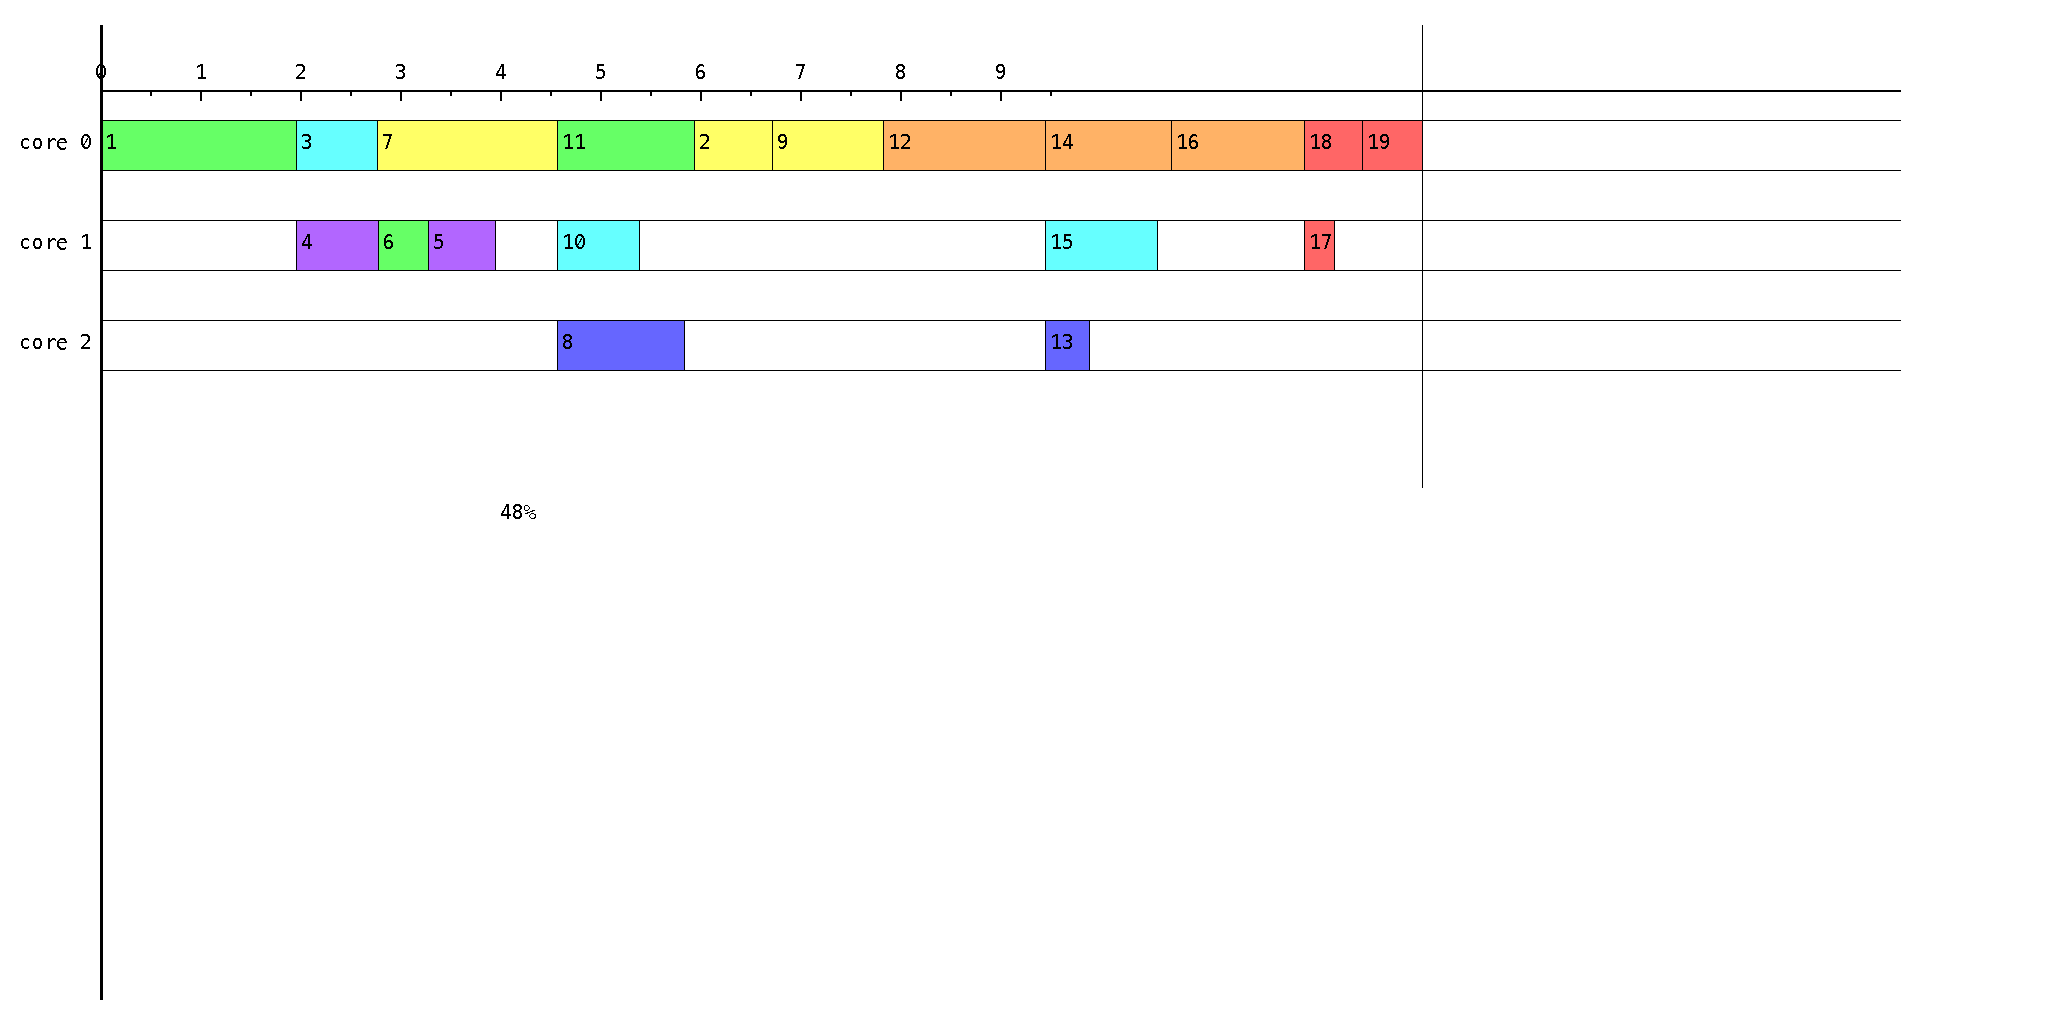
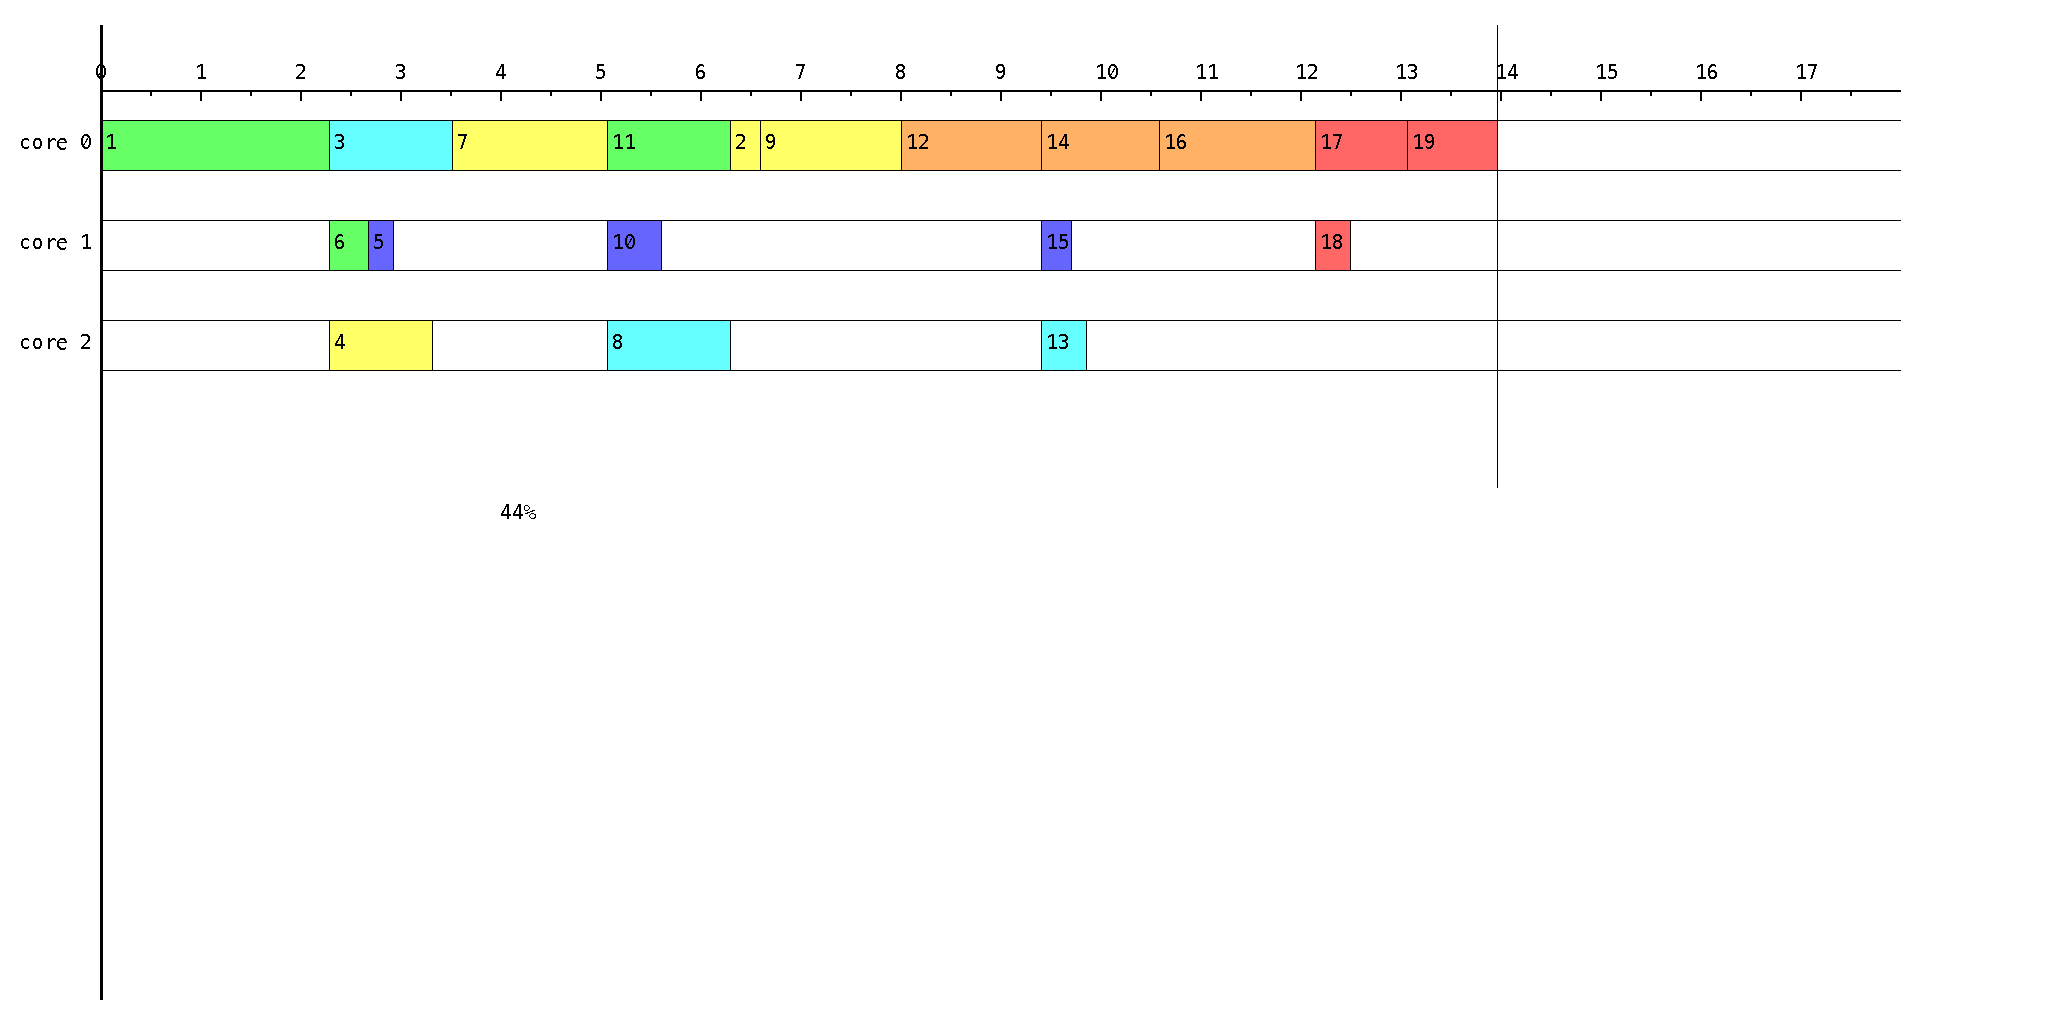
update

diff --git a/gty/src/main_cpop.py b/gty/src/main_cpop.py
@@ -6,6 +6,7 @@ from containerize import *
 import draw
 
 def main():
+    iso_limit = 3
     # init graph
     impact_factor, arc_num, vertex_num, core = maxcut.graph1_parameter()
     graph, vertex_cpu, process, communication_cpu = maxcut.initial_graph_1(vertex_num, arc_num, impact_factor)
@@ -33,37 +34,40 @@ def main():
     order = [t.id for t in priority_list]
     
     # containerize
-    r_dag, cpath, index, cont, bridge_tasks, new_tasks, new_processors = containerize(dag, processors, tasks, order, 'forward', 3)
+    r_dag, cpath, index, cont, bridge_tasks, new_tasks, new_processors = containerize(dag, processors, tasks, order, 'forward', iso_limit)
     print('forward:')
     draw.draw_canvas([(x.id, round(x.ast, 1), round(x.aft, 1), x.processor) for x in new_tasks], cont, 'forward.png')
     print(new_tasks[vertex_num].aft)
     print(cont)
 
     # containerize
-    r_dag, cpath, index, cont, bridge_tasks, new_tasks, new_processors = containerize(dag, processors, tasks, order, 'backward', 3)
+    r_dag, cpath, index, cont, bridge_tasks, new_tasks, new_processors = containerize(dag, processors, tasks, order, 'backward', iso_limit)
     print('backward:')
     draw.draw_canvas([(x.id, round(x.ast, 1), round(x.aft, 1), x.processor) for x in new_tasks], cont, 'backward.png')
     print(new_tasks[vertex_num].aft)
     print(cont)
 
     # in order
-    r_dag, cpath, index, cont, bridge_tasks, new_tasks, new_processors = containerize(dag, processors, tasks, order, 'inorder', 3)
+    r_dag, cpath, index, cont, bridge_tasks, new_tasks, new_processors = containerize(dag, processors, tasks, order, 'inorder', iso_limit)
     print('in order:')
     draw.draw_canvas([(x.id, round(x.ast, 1), round(x.aft, 1), x.processor) for x in new_tasks], cont, 'inorder.png')
     print(new_tasks[vertex_num].aft)
     print(cont)
 
     # random
-    r_dag, cpath, index, cont, bridge_tasks, new_tasks, new_processors = containerize(dag, processors, tasks, order, 'rand', 3)
+    r_dag, cpath, index, cont, bridge_tasks, new_tasks, new_processors = containerize(dag, processors, tasks, order, 'rand', iso_limit)
     print('random:')
     draw.draw_canvas([(x.id, round(x.ast, 1), round(x.aft, 1), x.processor) for x in new_tasks], cont, 'random.png')
     print(new_tasks[vertex_num].aft)
     print(cont)
 
     # upper bound
-    one_tasks, one_processors = update_schedule(dag, r_dag, processors, tasks, range(1, vertex_num + 1), order, [i for i in range(vertex_num + 1)])
+    cont_set = dict()
+    for i in range(vertex_num + 1):
+        cont_set[i] = i
+    one_tasks, one_processors = update_schedule(dag, r_dag, processors, tasks, range(1, vertex_num + 1), order, cont_set)
     print('upper bound:')
-    draw.draw_canvas([(x.id, round(x.ast, 1), round(x.aft, 1), x.processor) for x in one_tasks], cont, 'upper.png')
+    # draw.draw_canvas([(x.id, round(x.ast, 1), round(x.aft, 1), x.processor) for x in one_tasks], cont, 'upper.png')
     print(one_tasks[vertex_num].aft)
     print(cont)
     

diff --git a/gty/src/main.py b/gty/src/main.py
@@ -6,6 +6,7 @@ from containerize import *
 import draw
 
 def main():
+    iso_limit = 3
     # init graph
     impact_factor, arc_num, vertex_num, core = maxcut.graph4_parameter()
     graph, vertex_cpu, process, communication_cpu = maxcut.initial_graph_4(vertex_num, arc_num, impact_factor)
@@ -33,28 +34,28 @@ def main():
     order = [t.id for t in priority_list]
     
     # containerize
-    r_dag, cpath, index, cont, bridge_tasks, new_tasks, new_processors = containerize(dag, processors, tasks, order, 'forward', 2)
+    r_dag, cpath, index, cont, bridge_tasks, new_tasks, new_processors = containerize(dag, processors, tasks, order, 'forward', iso_limit)
     print('forward:')
     draw.draw_canvas([(x.id, round(x.ast, 1), round(x.aft, 1), x.processor) for x in new_tasks], cont, 'forward.png')
     print(new_tasks[vertex_num].aft)
     print(cont)
 
     # containerize
-    r_dag, cpath, index, cont, bridge_tasks, new_tasks, new_processors = containerize(dag, processors, tasks, order, 'backward', 2)
+    r_dag, cpath, index, cont, bridge_tasks, new_tasks, new_processors = containerize(dag, processors, tasks, order, 'backward', iso_limit)
     print('backward:')
     draw.draw_canvas([(x.id, round(x.ast, 1), round(x.aft, 1), x.processor) for x in new_tasks], cont, 'backward.png')
     print(new_tasks[vertex_num].aft)
     print(cont)
 
     # in order
-    r_dag, cpath, index, cont, bridge_tasks, new_tasks, new_processors = containerize(dag, processors, tasks, order, 'inorder', 2)
+    r_dag, cpath, index, cont, bridge_tasks, new_tasks, new_processors = containerize(dag, processors, tasks, order, 'inorder', iso_limit)
     print('in order:')
     draw.draw_canvas([(x.id, round(x.ast, 1), round(x.aft, 1), x.processor) for x in new_tasks], cont, 'inorder.png')
     print(new_tasks[vertex_num].aft)
     print(cont)
 
     # random
-    r_dag, cpath, index, cont, bridge_tasks, new_tasks, new_processors = containerize(dag, processors, tasks, order, 'rand', 2)
+    r_dag, cpath, index, cont, bridge_tasks, new_tasks, new_processors = containerize(dag, processors, tasks, order, 'rand', iso_limit)
     print('random:')
     draw.draw_canvas([(x.id, round(x.ast, 1), round(x.aft, 1), x.processor) for x in new_tasks], cont, 'random.png')
     print(new_tasks[vertex_num].aft)
